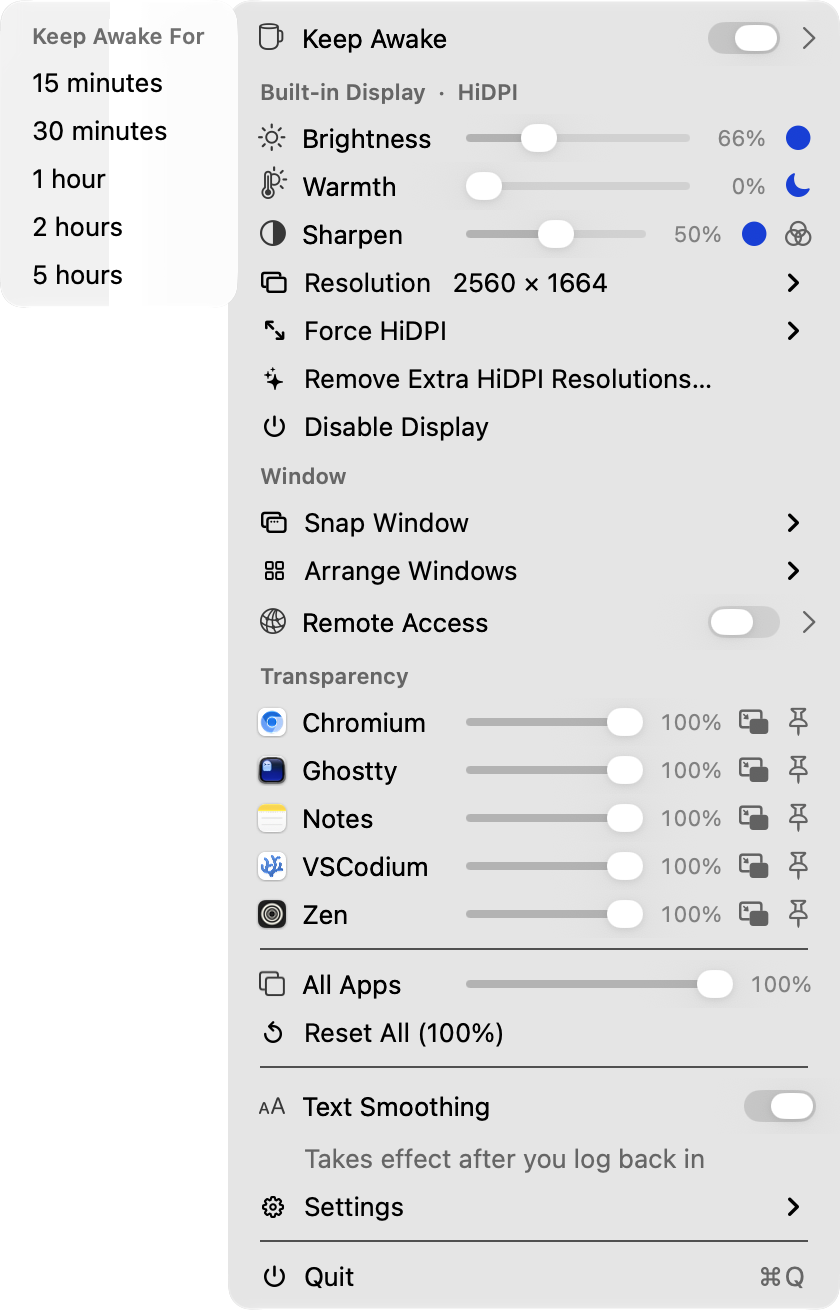
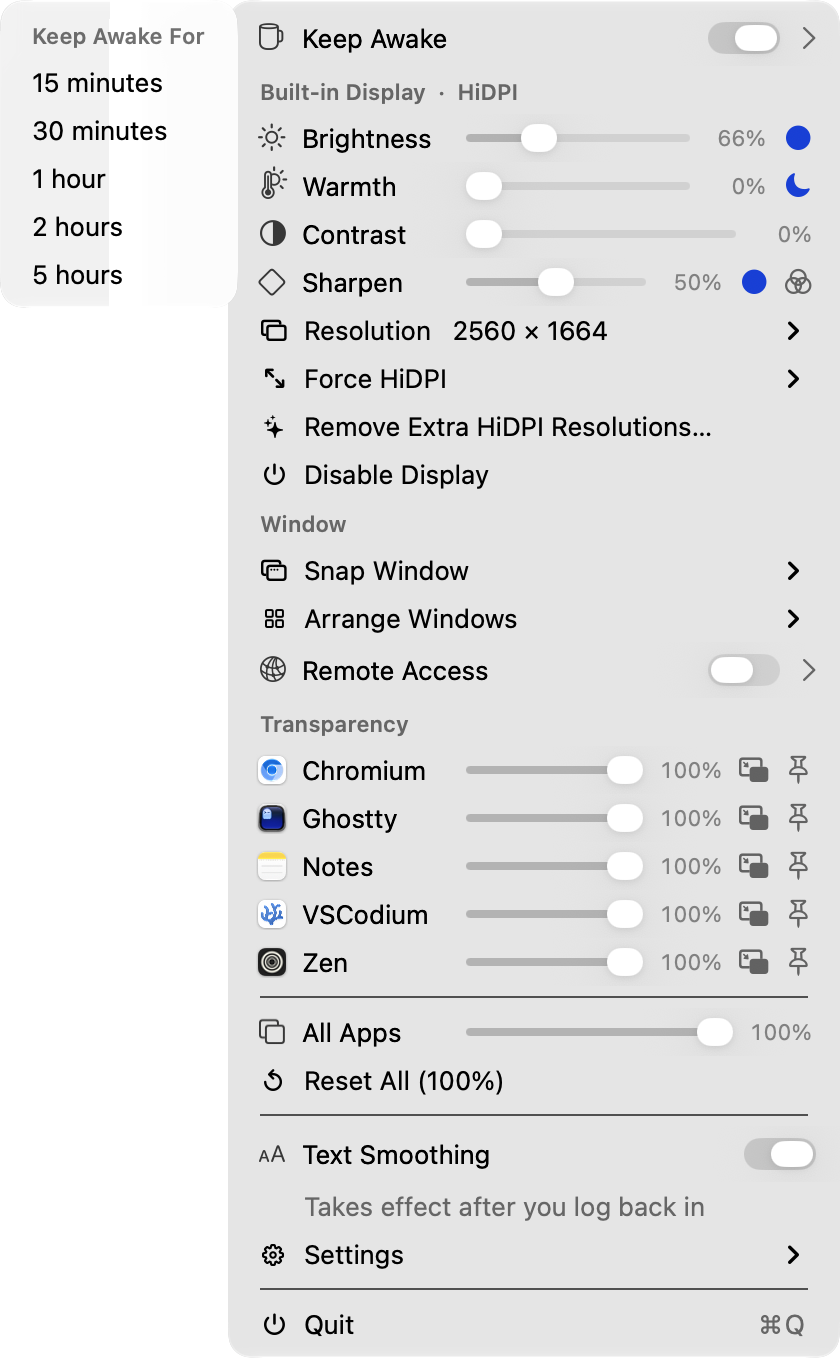
v2.8.10: contrast slider, panel dithering switch, text smoothing levels

diff --git a/docs/index.html b/docs/index.html
@@ -35,7 +35,7 @@
         "processorRequirements": "Apple Silicon",
         "url": "https://displaydeck.pyxis3.ai/",
         "downloadUrl": "https://github.com/pyxis3-ai/displaydeck/releases/latest",
-        "softwareVersion": "2.8.9",
+        "softwareVersion": "2.8.10",
         "license": "https://opensource.org/licenses/MIT",
         "author": { "@type": "Organization", "name": "PYXIS3" },
         "description": "A tiny macOS menu-bar app: disable screens, force HiDPI, boost brightness past 100%, warm the colors (auto at night), snap and tile windows, make any window transparent or float, reach your Mac from anywhere, and keep it awake.",

diff --git a/src/app/AppDelegate.m b/src/app/AppDelegate.m
@@ -10,6 +10,7 @@
 #import "BrightnessBooster.h"
 #import "ColorTemperature.h"
 #import "Sharpen.h"
+#import "Dithering.h"
 #import "Caffeine.h"
 #import <ServiceManagement/ServiceManagement.h>
 #import <UserNotifications/UserNotifications.h>
@@ -37,6 +38,8 @@ static NSString * const kConfirmDisable    = @"ConfirmBeforeDisable";
 static NSString * const kShowResolutions   = @"ShowResolutions";
 static NSString * const kFrostedBlur        = @"FrostedBlur";
 static NSString * const kTransparencyEnabled = @"TransparencyEnabled";
+static NSString * const kDisableDithering = @"DisableDithering";
+static NSString * const kTextSmoothingLevel = @"TextSmoothingLevel";
 static NSString * const kSharpenEnabled = @"SharpenEnabled";
 static NSString * const kSharpenAuto    = @"SharpenAuto";
 static NSString * const kSharpenShader  = @"SharpenShader";
@@ -258,6 +261,12 @@ static NSAttributedString *ddColumns(NSArray<NSString *> *cols, NSArray<NSNumber
     [[WindowTransparency shared] ensureBackendLoaded];
     [[WindowTransparency shared] startLiveUpdates];
     [[Sharpen shared] reapply];
+    if ([self pref:kDisableDithering]) [Dithering setDisabled:YES];
+    [NSWorkspace.sharedWorkspace.notificationCenter addObserverForName:NSWorkspaceDidWakeNotification
+        object:nil queue:NSOperationQueue.mainQueue usingBlock:^(NSNotification *note) {
+        (void)note;
+        if ([self pref:kDisableDithering]) [Dithering setDisabled:YES];
+    }];
 
     [[ColorTemperature shared] reapply];
 
@@ -300,6 +309,7 @@ static NSAttributedString *ddColumns(NSArray<NSString *> *cols, NSArray<NSNumber
     [[ColorTemperature shared] restoreAll];
     [[WindowPiP shared] restoreAll];
     [[WindowTransparency shared] restoreWindowsForQuit];
+    if ([self pref:kDisableDithering]) [Dithering setDisabled:NO];
     [[RemoteAccess shared] shutdown];
     [self.displayManager cleanUpAllVirtualDisplays];
     [self.displayManager stopMonitoring];
@@ -309,6 +319,7 @@ static NSAttributedString *ddColumns(NSArray<NSString *> *cols, NSArray<NSNumber
     [[NSUserDefaults standardUserDefaults] registerDefaults:@{
         kAutoManage:        @NO,
         kSharpenEnabled:    @YES,
+        kTextSmoothingLevel: @2,
         kTransparencyEnabled: @YES,
         kShowNotifications: @YES,
         kConfirmDisable:    @YES,
@@ -979,8 +990,14 @@ static NSAttributedString *ddColumns(NSArray<NSString *> *cols, NSArray<NSNumber
                                     maxPct:100 continuous:YES tag:display.displayID
                                     action:@selector(warmthSliderChanged:)
                                  accessories:@[autoWarm]]];
+    int contrast = (int)lroundf([[ColorTemperature shared] contrastForDisplay:display.displayID] * 100.0f);
+    [menu addItem:[self sliderRowWithLabel:@"Contrast" icon:ddSymbol(@"circle.righthalf.filled")
+                                   percent:contrast minPct:0
+                                    maxPct:100 continuous:YES tag:display.displayID
+                                    action:@selector(contrastSliderChanged:)
+                                 accessories:@[]]];
     int sharpen = (int)lroundf([[Sharpen shared] amountForDisplay:display.displayID] * 100.0f);
-    [menu addItem:[self sliderRowWithLabel:@"Sharpen" icon:ddSymbol(@"circle.righthalf.filled")
+    [menu addItem:[self sliderRowWithLabel:@"Sharpen" icon:ddSymbol(@"diamond")
                                    percent:sharpen minPct:0
                                     maxPct:100 continuous:YES tag:display.displayID
                                     action:@selector(sharpenSliderChanged:)
@@ -1261,6 +1278,16 @@ static NSAttributedString *ddColumns(NSArray<NSString *> *cols, NSArray<NSNumber
     ddSetToggle(sender, on);
 }
 
+- (void)contrastSliderChanged:(NSSlider *)sender {
+    [self syncSliderLabel:sender];
+    [[ColorTemperature shared] setContrast:sender.floatValue forDisplay:(CGDirectDisplayID)sender.tag];
+}
+
+- (void)setTextSmoothingLevel:(NSMenuItem *)sender {
+    [NSUserDefaults.standardUserDefaults setInteger:sender.tag forKey:kTextSmoothingLevel];
+    if ([self currentFontSmoothing] != 0) [self applyFontSmoothing:sender.tag];
+}
+
 - (void)sharpenSliderChanged:(NSSlider *)sender {
     [self syncSliderLabel:sender];
     [[Sharpen shared] setAmount:sender.floatValue forDisplay:(CGDirectDisplayID)sender.tag];
@@ -1343,6 +1370,20 @@ static NSAttributedString *ddColumns(NSArray<NSString *> *cols, NSArray<NSNumber
     [menu addItem:[NSMenuItem sectionHeaderWithTitle:@"Display"]];
     [menu addItem:[self checkItemWithTitle:@"Turn Off Built-in Display When an External Is Connected"
                                        key:kAutoManage]];
+    if ([Dithering isAvailable])
+        [menu addItem:[self checkItemWithTitle:@"Disable Panel Dithering" key:kDisableDithering]];
+
+    [menu addItem:[NSMenuItem sectionHeaderWithTitle:@"Text Smoothing"]];
+    NSArray<NSString *> *levels = @[@"Light", @"Medium", @"Strong"];
+    NSInteger currentLevel = [NSUserDefaults.standardUserDefaults integerForKey:kTextSmoothingLevel];
+    for (NSUInteger i = 0; i < levels.count; i++) {
+        NSMenuItem *item = [[NSMenuItem alloc] initWithTitle:levels[i]
+            action:@selector(setTextSmoothingLevel:) keyEquivalent:@""];
+        item.target = self;
+        item.tag = (NSInteger)i + 1;
+        item.state = (currentLevel == item.tag) ? NSControlStateValueOn : NSControlStateValueOff;
+        [menu addItem:item];
+    }
 
     [menu addItem:[NSMenuItem sectionHeaderWithTitle:@"Sharpen"]];
     [menu addItem:[self checkItemWithTitle:@"Sharpen Enabled" key:kSharpenEnabled]];
@@ -1427,7 +1468,8 @@ static NSAttributedString *ddColumns(NSArray<NSString *> *cols, NSArray<NSNumber
 }
 
 - (void)fontSmoothingToggled:(NSSwitch *)sw {
-    [self applyFontSmoothing:(sw.state == NSControlStateValueOn) ? 2 : 0];
+    NSInteger level = MAX(1, [NSUserDefaults.standardUserDefaults integerForKey:kTextSmoothingLevel]);
+    [self applyFontSmoothing:(sw.state == NSControlStateValueOn) ? level : 0];
 }
 
 - (NSArray<DDDisplayMode *> *)curatedModes:(NSArray<DDDisplayMode *> *)modes
@@ -1788,6 +1830,7 @@ static NSAttributedString *ddColumns(NSArray<NSString *> *cols, NSArray<NSNumber
         [self performAutoDisableIfNeeded];
     }
     if ([key hasPrefix:@"Sharpen"]) [[Sharpen shared] reapply];
+    if ([key isEqualToString:kDisableDithering]) [Dithering setDisabled:[self pref:kDisableDithering]];
     if ([key isEqualToString:kTransparencyEnabled])
         [WindowTransparency shared].enabled = [self pref:kTransparencyEnabled];
     if ([key isEqualToString:kFrostedBlur]) {

diff --git a/src/display/ColorTemperature.m b/src/display/ColorTemperature.m
@@ -3,6 +3,7 @@
 #include <math.h>
 
 static NSString *const kWarmthKey = @"DDWarmth";
+static NSString *const kContrastKey = @"DDContrast";
 static NSString *const kAutoKey   = @"DDWarmthAuto";
 static const double kNeutralKelvin = 6500.0;
 static const double kWarmestKelvin = 3400.0;
@@ -23,6 +24,7 @@ static void ddColorReconfig(CGDirectDisplayID, CGDisplayChangeSummaryFlags, void
 
 @interface ColorTemperature ()
 @property (nonatomic, strong) NSMutableDictionary<NSNumber *, NSNumber *> *warmths;
+@property (nonatomic, strong) NSMutableDictionary<NSNumber *, NSNumber *> *contrasts;
 @property (nonatomic, strong) NSTimer *timer;
 @property (nonatomic) float lastRamp;
 - (void)reapply;
@@ -43,6 +45,7 @@ static void ddColorReconfig(CGDirectDisplayID, CGDisplayChangeSummaryFlags, void
     self = [super init];
     if (self) {
         _warmths = DDLoadNumberMap(kWarmthKey);
+        _contrasts = DDLoadNumberMap(kContrastKey);
         _lastRamp = -1.0f;
 
         _timer = [NSTimer scheduledTimerWithTimeInterval:60 target:self
@@ -98,9 +101,11 @@ static void temperatureGains(double kelvin, double *r, double *g, double *b) {
     double kelvin = kNeutralKelvin - warmth * (kNeutralKelvin - kWarmestKelvin);
     double rg, gg, bg;
     temperatureGains(kelvin, &rg, &gg, &bg);
+    double contrast = [self contrastForDisplay:displayID];
     CGGammaValue r[kRampSize], g[kRampSize], b[kRampSize];
     for (uint32_t i = 0; i < kRampSize; i++) {
         double v = (double)i / (kRampSize - 1);
+        v += contrast * (v * v * (3.0 - 2.0 * v) - v);
         r[i] = v * rg;
         g[i] = v * gg;
         b[i] = v * bg;
@@ -117,6 +122,22 @@ static void temperatureGains(double kelvin, double *r, double *g, double *b) {
 
 - (float)warmthForDisplay:(CGDirectDisplayID)displayID {
     return self.warmths[@(displayID)] ? self.warmths[@(displayID)].floatValue : 0.0f;
+}
+
+- (float)contrastForDisplay:(CGDirectDisplayID)displayID {
+    return self.contrasts[@(displayID)].floatValue;
+}
+
+- (void)setContrast:(float)contrast forDisplay:(CGDirectDisplayID)displayID {
+    if (contrast <= 0.001f) [self.contrasts removeObjectForKey:@(displayID)];
+    else                    self.contrasts[@(displayID)] = @(contrast);
+    DDSaveNumberMap(self.contrasts, kContrastKey);
+    [self reapply];
+}
+
+- (BOOL)needsRampForDisplay:(CGDirectDisplayID)displayID {
+    return [self effectiveWarmthForDisplay:displayID] > 0.001f ||
+           [self contrastForDisplay:displayID] > 0.001f;
 }
 
 - (void)persist {
@@ -136,14 +157,14 @@ static void temperatureGains(double kelvin, double *r, double *g, double *b) {
     self.lastRamp = self.autoEnabled ? nightRamp() : -1.0f;
     for (NSNumber *d in DDQueryDisplayList(CGGetActiveDisplayList)) {
         float w = [self effectiveWarmthForDisplay:d.unsignedIntValue];
-        if (w > 0.001f) [self setRampForDisplay:d.unsignedIntValue warmth:w];
+        if ([self needsRampForDisplay:d.unsignedIntValue]) [self setRampForDisplay:d.unsignedIntValue warmth:w];
     }
 }
 
 - (void)reassert {
     for (NSNumber *d in DDQueryDisplayList(CGGetActiveDisplayList)) {
         float w = [self effectiveWarmthForDisplay:d.unsignedIntValue];
-        if (w > 0.001f) [self setRampForDisplay:d.unsignedIntValue warmth:w];
+        if ([self needsRampForDisplay:d.unsignedIntValue]) [self setRampForDisplay:d.unsignedIntValue warmth:w];
     }
 }
 

diff --git a/src/display/Dithering.m b/src/display/Dithering.m
@@ -1,0 +1,38 @@
+#import "Dithering.h"
+#import <IOKit/IOKitLib.h>
+
+static NSString *const kDitherProperty = @"enableDither";
+
+@implementation Dithering
+
++ (void)forEachFramebuffer:(void (^)(io_registry_entry_t entry))block {
+    io_iterator_t iterator = IO_OBJECT_NULL;
+    if (IORegistryCreateIterator(kIOMainPortDefault, kIOServicePlane,
+                                 kIORegistryIterateRecursively, &iterator) != KERN_SUCCESS) return;
+    io_registry_entry_t entry;
+    while ((entry = IOIteratorNext(iterator))) {
+        CFTypeRef value = IORegistryEntryCreateCFProperty(entry, (__bridge CFStringRef)kDitherProperty, NULL, 0);
+        if (value) {
+            CFRelease(value);
+            block(entry);
+        }
+        IOObjectRelease(entry);
+    }
+    IOObjectRelease(iterator);
+}
+
++ (BOOL)isAvailable {
+    __block BOOL found = NO;
+    [self forEachFramebuffer:^(io_registry_entry_t entry) { (void)entry; found = YES; }];
+    return found;
+}
+
++ (void)setDisabled:(BOOL)disabled {
+    [self forEachFramebuffer:^(io_registry_entry_t entry) {
+        kern_return_t result = IORegistryEntrySetCFProperty(entry, (__bridge CFStringRef)kDitherProperty,
+                                                            disabled ? kCFBooleanFalse : kCFBooleanTrue);
+        if (result != KERN_SUCCESS) NSLog(@"DisplayDeck: could not change dithering: 0x%x", result);
+    }];
+}
+
+@end

diff --git a/src/display/ColorTemperature.h b/src/display/ColorTemperature.h
@@ -11,6 +11,10 @@ NS_ASSUME_NONNULL_BEGIN
 
 - (float)warmthForDisplay:(CGDirectDisplayID)displayID;
 - (void)setWarmth:(float)warmth forDisplay:(CGDirectDisplayID)displayID;
+// 0 leaves tones alone; higher values bend them into an S-curve so text and
+// edges stand out more. Applied in the display's gamma table: no lag, no capture.
+- (float)contrastForDisplay:(CGDirectDisplayID)displayID;
+- (void)setContrast:(float)contrast forDisplay:(CGDirectDisplayID)displayID;
 - (void)reapply;
 - (void)restoreAll;
 

diff --git a/src/display/Dithering.h b/src/display/Dithering.h
@@ -1,0 +1,15 @@
+#import <Foundation/Foundation.h>
+
+NS_ASSUME_NONNULL_BEGIN
+
+// Apple Silicon panels flicker individual pixels between neighbouring colours
+// (temporal dithering) to fake extra colour depth. Turning it off keeps every
+// pixel still, at the cost of slightly coarser gradients.
+@interface Dithering : NSObject
+
++ (BOOL)isAvailable;
++ (void)setDisabled:(BOOL)disabled;
+
+@end
+
+NS_ASSUME_NONNULL_END

diff --git a/README.md b/README.md
@@ -7,7 +7,7 @@
 
 Disable & enable screens, Force HiDPI, brightness with EDR boost, color warmth (with auto-night), window tiling/snapping, transparency, blur, keep-on-top & picture-in-picture, keep-awake, remote access.
 
-[![Release](https://img.shields.io/badge/release-v2.8.9-2ea44f?style=flat-square)](https://github.com/pyxis3-ai/displaydeck/releases/latest)
+[![Release](https://img.shields.io/badge/release-v2.8.10-2ea44f?style=flat-square)](https://github.com/pyxis3-ai/displaydeck/releases/latest)
 [![License](https://img.shields.io/badge/license-MIT-3da639?style=flat-square)](LICENSE)
 [![Platform](https://img.shields.io/badge/macOS-14%2B-000?style=flat-square&logo=apple&logoColor=white)](#requirements)
 [![Apple Silicon](https://img.shields.io/badge/Apple_Silicon-555?style=flat-square)](#requirements)
@@ -32,6 +32,7 @@ Disable & enable screens, Force HiDPI, brightness with EDR boost, color warmth (
 |                                  |                                                                                                                                                                                                                                                                                                                                                                                                                                                                                                                                                                              |
 | -------------------------------- | ---------------------------------------------------------------------------------------------------------------------------------------------------------------------------------------------------------------------------------------------------------------------------------------------------------------------------------------------------------------------------------------------------------------------------------------------------------------------------------------------------------------------------------------------------------------------------- |
 | **Disable / enable any display** | Turn off the built-in panel in clamshell/headless setups so it stays off when the lid opens. Optionally auto-disable the built-in whenever an external monitor connects - with a **failsafe** that re-enables the built-in if a disconnect (or a stale/phantom external entry) would otherwise leave you with no usable screen.                                                                                                                                                                                                                                              |
+| ◑ **Contrast**                   | A per-display slider that bends tones into an S-curve in the gamma table so text and edges stand out. No capture, no lag.                                                                                                                                                                                                                                                                                                                                                                                                                                                    |
 | ◐ **Sharpen**                    | A per-display slider that applies an unsharp mask to the whole screen so small text reads crisper at "More Space" sizes. Composed in the window server from backdrop layers - no Screen Recording permission, no capture lag.                                                                                                                                                                                                                                                                                                                                                |
 | ⤢ **Force HiDPI**                | Add crisp scaled (retina) resolutions to displays that don't natively offer them, via a mirrored private `SLVirtualDisplay`, plus a "More Space" supersampling tier. Optionally writes **persistent "extra HiDPI resolutions" override plists**.                                                                                                                                                                                                                                                                                                                             |
 | **Brightness + boost**           | Built-in panel via `DisplayServices`, externals via DDC/CI, an inline **auto-brightness** toggle, and an **EDR boost above 100%** clamped to the display's real, learned headroom (mild on a built-in, big on a true XDR/HDR panel) - colors preserved, auto-suspends in Mission Control.                                                                                                                                                                                                                                                                                    |

diff --git a/CHANGELOG.md b/CHANGELOG.md
@@ -2,6 +2,18 @@
 
 All notable changes to DisplayDeck are documented here. Format follows [Keep a Changelog](https://keepachangelog.com); versions follow [SemVer](https://semver.org).
 
+## [2.8.10] - 2026-10-10
+
+### Added
+
+- **Contrast - a per-display slider.** Bends tones into an S-curve in the display's gamma table, so text and edges stand out more. No capture and no lag; it combines with Warmth.
+- **Disable Panel Dithering** in Settings → Display. Apple Silicon panels flicker pixels between neighbouring colours to fake extra depth; this keeps every pixel still, at the cost of slightly coarser gradients. It is re-applied after wake and restored when DisplayDeck quits.
+- **Text Smoothing levels** in Settings: Light, Medium or Strong for the main Text Smoothing switch.
+
+### Changed
+
+- **Lower-latency presentation for the Sharpen shader**, though it still runs a few frames behind; the default Sharpen path has no lag.
+
 ## [2.8.9] - 2026-10-10
 
 ### Added
